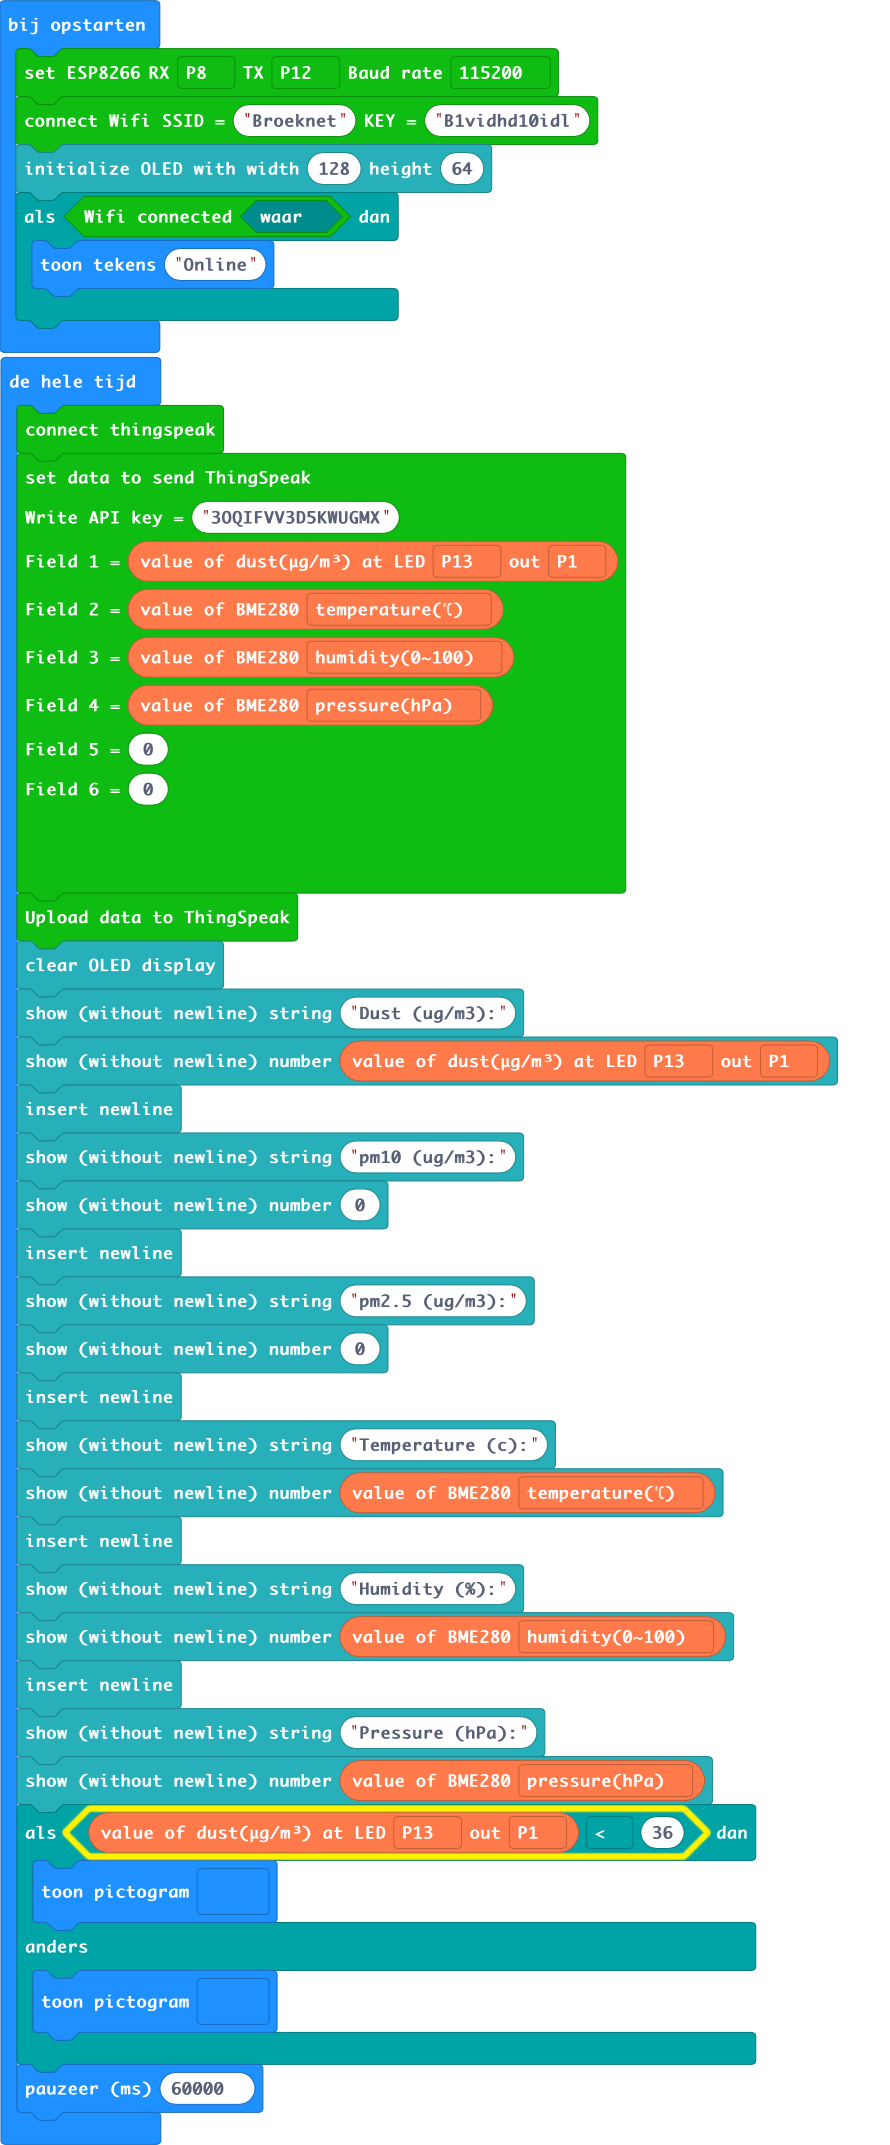
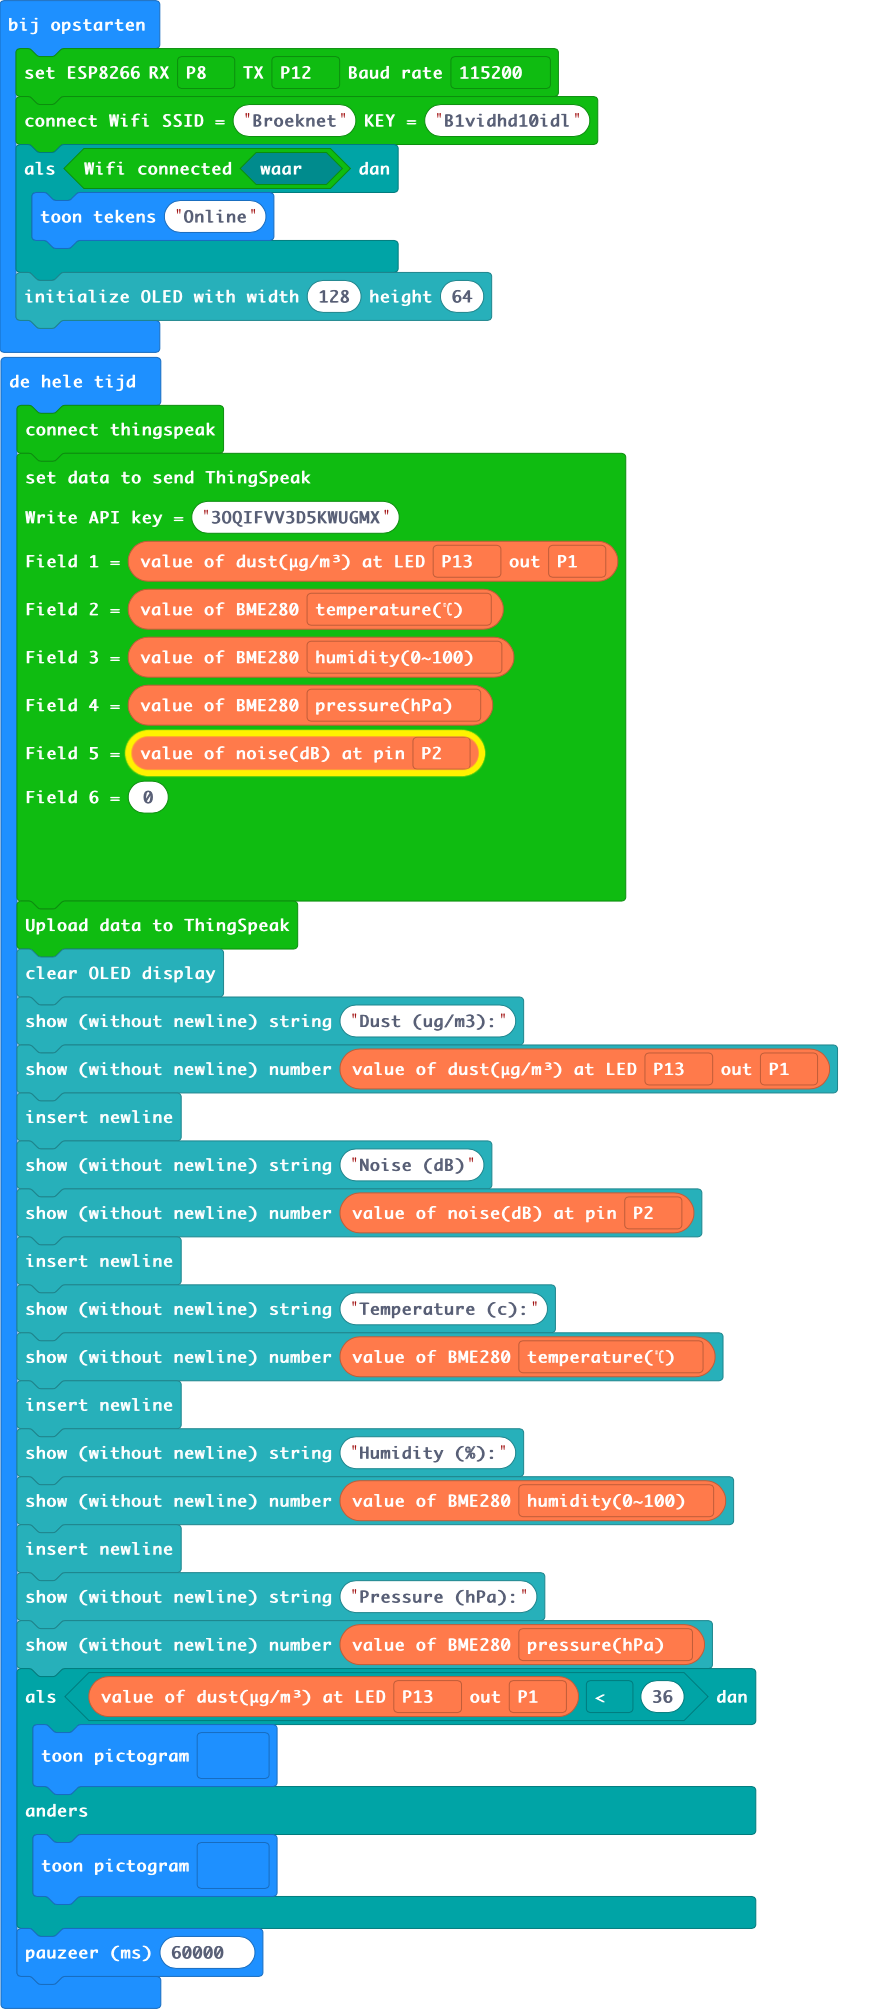
Removed other particles, added noise on field 5.

diff --git a/main.ts b/main.ts
@@ -1,9 +1,9 @@
 ESP8266_IoT.initWIFI(SerialPin.P8, SerialPin.P12, BaudRate.BaudRate115200)
 ESP8266_IoT.connectWifi("Broeknet", "B1vidhd10idl")
-OLED.init(128, 64)
 if (ESP8266_IoT.wifiState(true)) {
     basic.showString("Online")
 }
+OLED.init(128, 64)
 basic.forever(function () {
     ESP8266_IoT.connectThingSpeak()
     ESP8266_IoT.setData(
@@ -12,7 +12,7 @@ basic.forever(function () {
     Environment.octopus_BME280(Environment.BME280_state.BME280_temperature_C),
     Environment.octopus_BME280(Environment.BME280_state.BME280_humidity),
     Environment.octopus_BME280(Environment.BME280_state.BME280_pressure),
-    0,
+    Environment.ReadNoise(AnalogPin.P2),
     0
     )
     ESP8266_IoT.uploadData()
@@ -20,11 +20,8 @@ basic.forever(function () {
     OLED.writeString("Dust (ug/m3):")
     OLED.writeNum(Environment.ReadDust(DigitalPin.P13, AnalogPin.P1))
     OLED.newLine()
-    OLED.writeString("pm10 (ug/m3):")
-    OLED.writeNum(0)
-    OLED.newLine()
-    OLED.writeString("pm2.5 (ug/m3):")
-    OLED.writeNum(0)
+    OLED.writeString("Noise (dB)")
+    OLED.writeNum(Environment.ReadNoise(AnalogPin.P2))
     OLED.newLine()
     OLED.writeString("Temperature (c):")
     OLED.writeNum(Environment.octopus_BME280(Environment.BME280_state.BME280_temperature_C))
